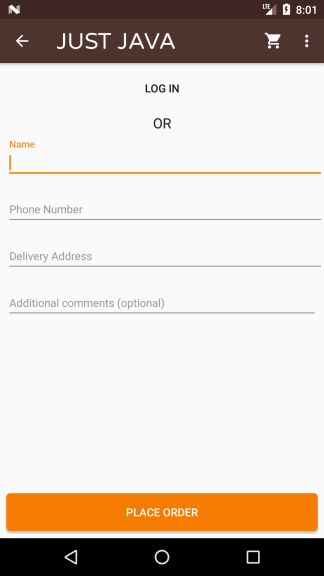
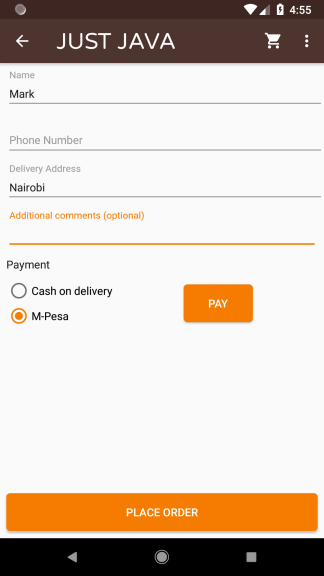
Update README and screenshots

diff --git a/README.md b/README.md
@@ -5,9 +5,10 @@ A mock Android application for a coffee shop.
 * MVP architecture.
 * Room (with RxJava) for local data storage.
 * Firebase Authentication for Authentication.
-* Firebase Realtime Database and Firebase Cloud Firestore for cloud storage. (To be moved to only Firestore).
+* Firebase Cloud Firestore for cloud storage.
 * Firebase Cloud Messaging for notifications. 
 * Crashlytics by Fabric for crash reporting.
+* Mpesa payment
 
 ## Screenshots
 
